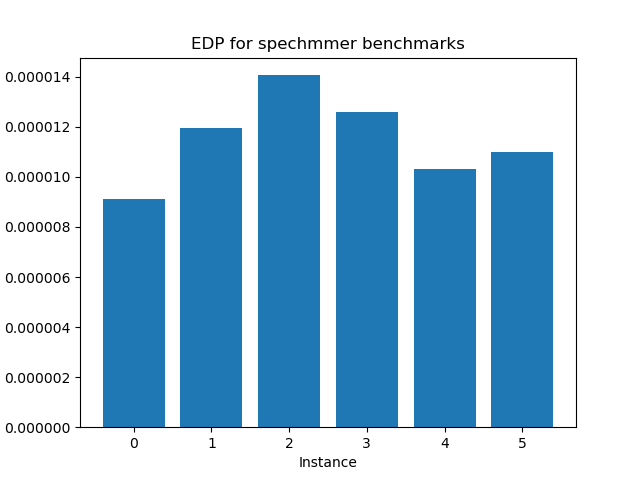
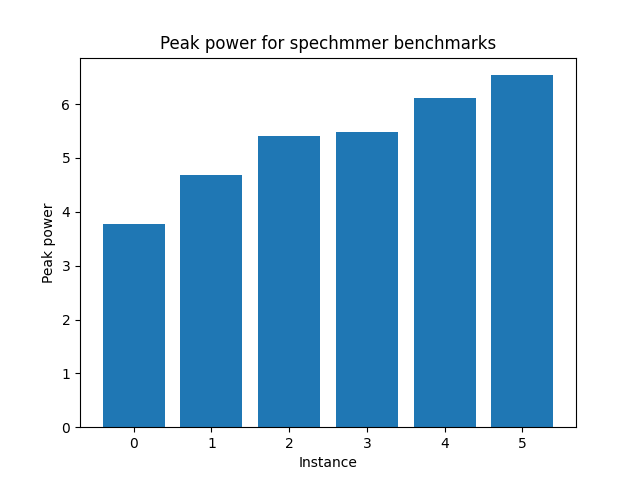
graphs peak power

diff --git a/graphs/results.py b/graphs/results.py
@@ -1,182 +1,1 @@
-results = [
-{
-"benchmark": "specbzip_0",
-"energy": 111.449729,
-"runtime": 0.088789,
-"area": 12.81
-},
-{
-"benchmark": "specbzip_1",
-"energy": 120.302747,
-"runtime": 0.088462,
-"area": 11.8262
-},
-{
-"benchmark": "specbzip_2",
-"energy": 334.681366,
-"runtime": 0.082418,
-"area": 40.6735
-},
-{
-"benchmark": "specbzip_3",
-"energy": 89.570033,
-"runtime": 0.096367,
-"area": 9.88998
-},
-{
-"benchmark": "specbzip_4",
-"energy": 107.923797,
-"runtime": 0.084697,
-"area": 12.8005
-},
-{
-"benchmark": "specbzip_5",
-"energy": 134.884367,
-"runtime": 0.081889,
-"area": 26.7898
-},
-{
-"benchmark": "spechmmer_0",
-"energy": 0.104656,
-"runtime": 0.000087,
-"area": 10.7277
-},
-{
-"benchmark": "spechmmer_1",
-"energy": 0.140657,
-"runtime": 0.000085,
-"area": 13.4301
-},
-{
-"benchmark": "spechmmer_2",
-"energy": 0.165451,
-"runtime": 0.000085,
-"area": 20.7599
-},
-{
-"benchmark": "spechmmer_3",
-"energy": 0.148114,
-"runtime": 0.000085,
-"area": 25.5506
-},
-{
-"benchmark": "spechmmer_4",
-"energy": 0.121519,
-"runtime": 0.000085,
-"area": 20.9986
-},
-{
-"benchmark": "spechmmer_5",
-"energy": 0.129459,
-"runtime": 0.000085,
-"area": 26.5987
-},
-{
-"benchmark": "speclibm_0",
-"energy": 324.150572,
-"runtime": 0.174885,
-"area": 22.5025
-},
-{
-"benchmark": "speclibm_1",
-"energy": 250.170151,
-"runtime": 0.280510,
-"area": 8.71241
-},
-{
-"benchmark": "speclibm_2",
-"energy": 353.451402,
-"runtime": 0.174781,
-"area": 20.7599
-},
-{
-"benchmark": "speclibm_3",
-"energy": 410.490422,
-"runtime": 0.174885,
-"area": 20.5768
-},
-{
-"benchmark": "speclibm_4",
-"energy": 265.806922,
-"runtime": 0.280511,
-"area": 9.98766
-},
-{
-"benchmark": "speclibm_5",
-"energy": 274.702811,
-"runtime": 0.174563,
-"area": 26.2913
-},
-{
-"benchmark": "specmcf_0",
-"energy": 72.589212,
-"runtime": 0.058270,
-"area": 10.6435
-},
-{
-"benchmark": "specmcf_1",
-"energy": 102.377680,
-"runtime": 0.057741,
-"area": 19.8114
-},
-{
-"benchmark": "specmcf_2",
-"energy": 57.644520,
-"runtime": 0.065442,
-"area": 8.40725
-},
-{
-"benchmark": "specmcf_3",
-"energy": 143.148377,
-"runtime": 0.114459,
-"area": 10.6435
-},
-{
-"benchmark": "specmcf_4",
-"energy": 202.611330,
-"runtime": 0.113766,
-"area": 19.8114
-},
-{
-"benchmark": "specmcf_5",
-"energy": 113.599991,
-"runtime": 0.128680,
-"area": 8.40725
-},
-{
-"benchmark": "specsjeng_0",
-"energy": 620.485952,
-"runtime": 0.515015,
-"area": 10.7277
-},
-{
-"benchmark": "specsjeng_1",
-"energy": 950.185798,
-"runtime": 0.882947,
-"area": 11.2787
-},
-{
-"benchmark": "specsjeng_2",
-"energy": 741.823467,
-"runtime": 0.513831,
-"area": 21.3141
-},
-{
-"benchmark": "specsjeng_3",
-"energy": 1171.905352,
-"runtime": 0.513953,
-"area": 20.5768
-},
-{
-"benchmark": "specsjeng_4",
-"energy": 1014.225521,
-"runtime": 0.882322,
-"area": 21.0581
-},
-{
-"benchmark": "specsjeng_5",
-"energy": 845.882898,
-"runtime": 0.513640,
-"area": 26.5987
-},
-]
+results = [3.8508, 4.36487, 13.8459, 2.20457, 3.8992, 5.05549, 3.78201, 4.68901, 5.40494, 5.47333, 6.11406, 6.53678, 7.77643, 2.17736, 5.40494, 5.79582, 2.70268, 6.23863, 3.91854, 5.49615, 2.80767, 3.91854, 5.49615, 2.80767, 3.78201, 2.56224, 4.92972, 5.79582, 3.25311, 6.53678, ]

diff --git a/graphs/plotting.py b/graphs/plotting.py
@@ -6,16 +6,13 @@ benchmarks = ["specbzip", "spechmmer", "speclibm", "specmcf", "specsjeng"]
 for i in range(len(benchmarks)):
     data_graph = []
     for j in range(6):
-        curr_dict = results[i * 6 + j]
-        data_graph.append(curr_dict["energy"] * curr_dict["runtime"])
+        data_graph.append(results[i * 6 + j])
 
     instances = list(range(6))
-    fig_path = "important_results/graphs/" + benchmarks[i]
+    fig_path = "graphs/pngs/" + benchmarks[i]
     plt.bar(instances, data_graph)
-    plt.title("EDP for " + benchmarks[i] + " benchmarks")
+    plt.title("Peak power for " + benchmarks[i] + " benchmarks")
     plt.xlabel("Instance")
-    plt.ylabel("EDP")
+    plt.ylabel("Peak power")
     plt.savefig(fig_path)
     plt.close()
-
-

diff --git a/print_energy_results/results_parser.py b/print_energy_results/results_parser.py
@@ -1,0 +1,15 @@
+benchmarks = ["specbzip", "spechmmer", "speclibm", "specmcf", "specsjeng"]
+
+with open("graphs/results.py", "w") as file_write:
+    file_write.write("results = [")
+    for benchmark in benchmarks:
+        for i in range(6):
+            file_read_path = "gem5_to_mcpat/" + benchmark + "_" + str(i) + ".txt"
+            with open(file_read_path, "r") as file_read:
+                lines = file_read.readlines()
+                for line in lines:
+                    if "Peak Power" in line:
+                        value = line.split()[3]
+                        file_write.write(f"{value}, ")
+                        break
+    file_write.write("]")
